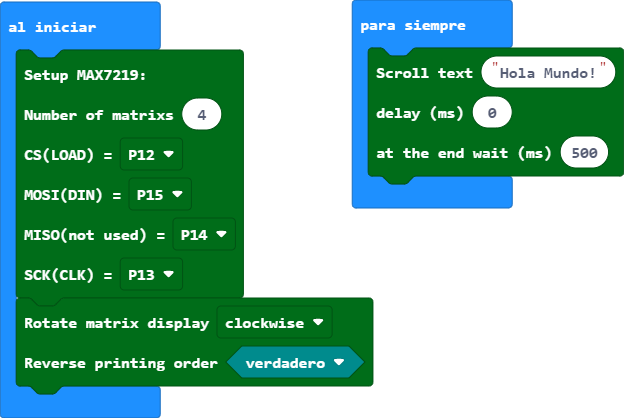
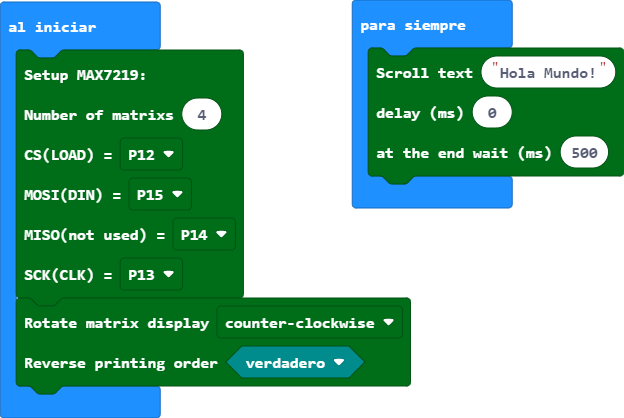
Se Cambio el sentido del reloj quedando como debe de ser

Changed region(s): [[0.3654, 0.6842, 0.6699, 0.933]]

diff --git a/main.ts b/main.ts
@@ -6,7 +6,7 @@ DigitalPin.P14,
 DigitalPin.P13
 )
 max7219_matrix.for_4_in_1_modules(
-rotation_direction.clockwise,
+rotation_direction.counterclockwise,
 true
 )
 basic.forever(function () {
